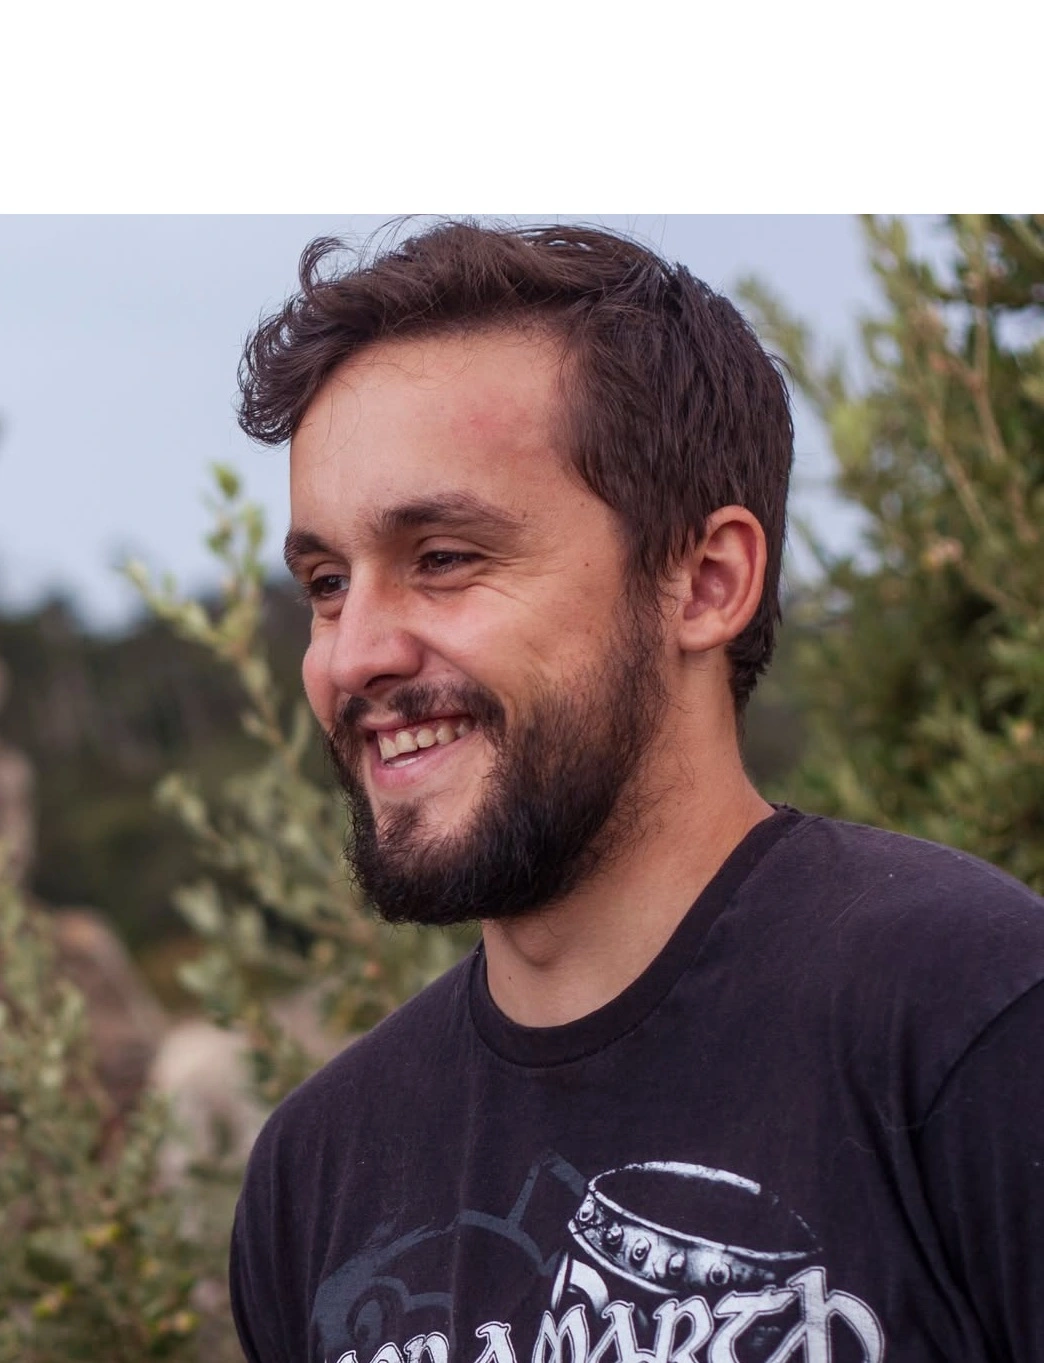
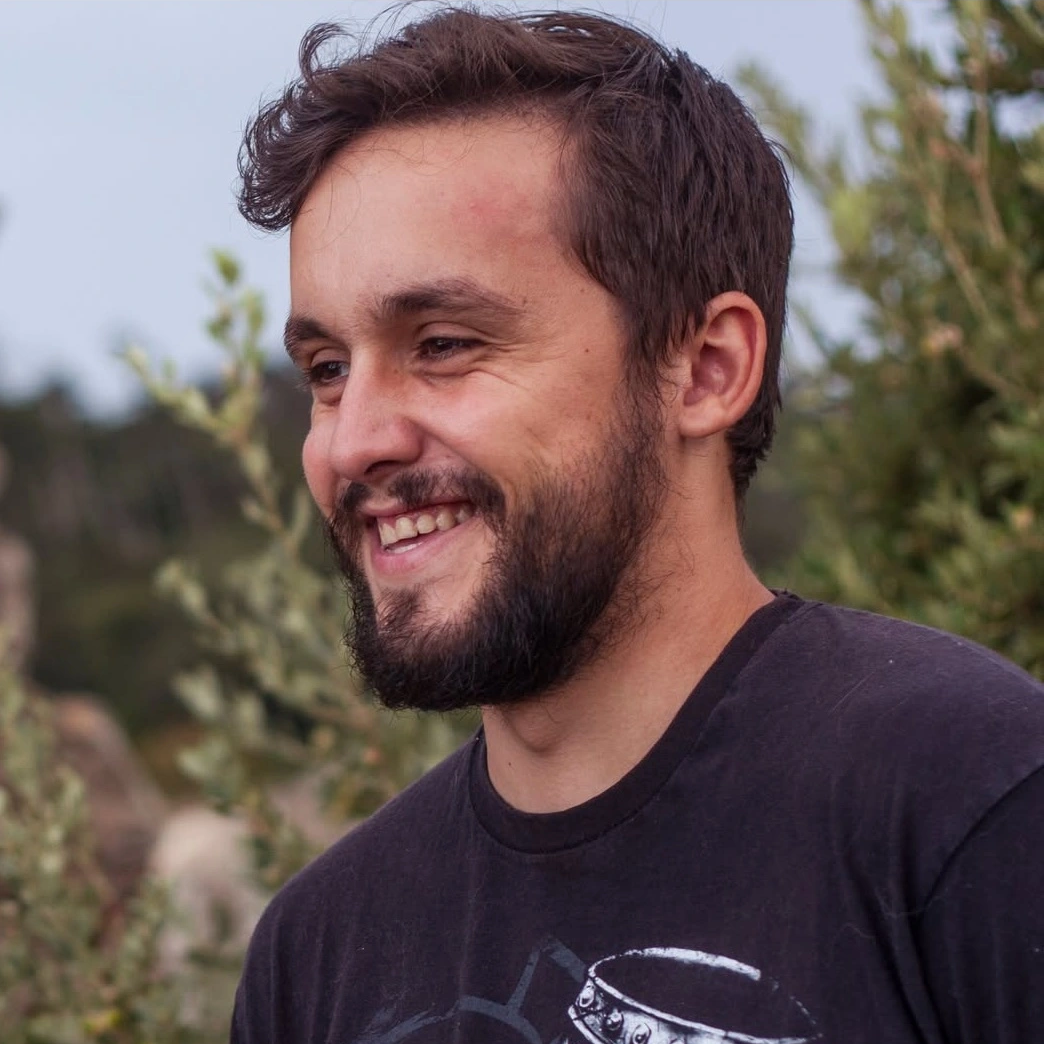
feat: Update About section profile image
Replaces the profile image asset and removes the `object-top` class. This allows the updated image to be naturally centered within its container for optimal framing and visual balance.

diff --git a/src/components/sections/About.tsx b/src/components/sections/About.tsx
@@ -53,7 +53,7 @@ export default function About() {
               alt="Yannick Bernard"
               width={192}
               height={192}
-              className="object-cover object-top w-full h-full"
+              className="object-cover w-full h-full"
             />
           </div>
           <p className="font-sora font-bold text-foreground text-lg mt-4">Yannick Bernard</p>